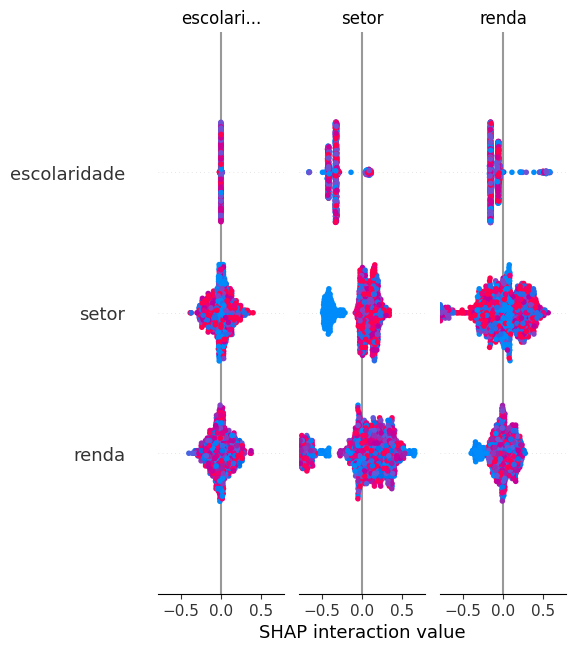
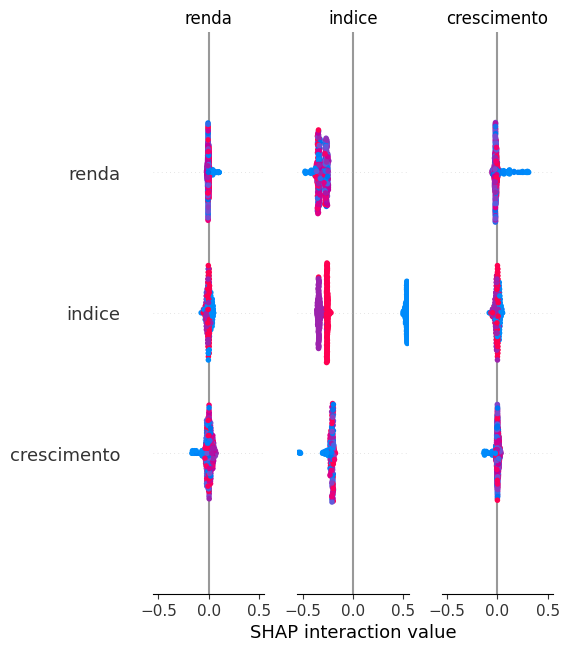
Atualização dashboard e deploy

diff --git a/src/previsao.py b/src/previsao.py
@@ -1,9 +1,9 @@
-import pandas as pd
-import joblib
 import os
+import joblib
+import pandas as pd
 
 # ==========================================
-# MODELO
+# CARREGAR MODELO
 # ==========================================
 
 modelo = None
@@ -19,19 +19,6 @@ if os.path.exists(CAMINHO_MODELO):
     )
 
 # ==========================================
-# FEATURES
-# ==========================================
-
-FEATURES_MODELO = [
-    "indice",
-    "crescimento",
-    "renda",
-    "escolaridade",
-    "setor",
-    "regiao"
-]
-
-# ==========================================
 # PREVISÃO INDIVIDUAL
 # ==========================================
 
@@ -43,32 +30,76 @@ def prever_risco(dados):
             "erro": "Modelo não encontrado."
         }
 
-    df = pd.DataFrame([dados])
+    try:
 
-    df = df[FEATURES_MODELO]
+        # ==================================
+        # CRIAR FEATURES FALTANTES
+        # ==================================
 
-    previsao = modelo.predict(df)[0]
+        risco_temp = 1
 
-    probabilidades = modelo.predict_proba(df)[0]
+        dados["indice"] = (
+            risco_temp * 40
+        )
 
-    score = round(
-        max(probabilidades) * 100,
-        2
-    )
+        dados["crescimento"] = (
+            dados["renda"] / 1000
+        )
 
-    mapa = {
-        0: "Baixo",
-        1: "Médio",
-        2: "Alto"
-    }
+        # ==================================
+        # ORDEM DAS FEATURES
+        # ==================================
 
-    return {
-        "classe": mapa.get(
+        colunas = [
+            "indice",
+            "crescimento",
+            "renda",
+            "escolaridade",
+            "setor",
+            "regiao"
+        ]
+
+        df = pd.DataFrame(
+            [dados]
+        )[colunas]
+
+        # ==================================
+        # PREVISÃO
+        # ==================================
+
+        probabilidades = (
+            modelo.predict_proba(df)
+        )
+
+        score = max(
+            probabilidades[0]
+        ) * 100
+
+        previsao = (
+            modelo.predict(df)[0]
+        )
+
+        mapa = {
+            0: "Baixo",
+            1: "Médio",
+            2: "Alto"
+        }
+
+        risco = mapa.get(
             previsao,
-            previsao
-        ),
-        "score": score
-    }
+            str(previsao)
+        )
+
+        return {
+            "risco": risco,
+            "score": round(score, 2)
+        }
+
+    except Exception as e:
+
+        return {
+            "erro": str(e)
+        }
 
 # ==========================================
 # PREVISÃO EM LOTE
@@ -78,25 +109,11 @@ def prever_em_lote(df):
 
     if modelo is None:
 
-        return pd.DataFrame({
-            "Erro": [
-                "Modelo não encontrado."
-            ]
-        })
+        raise Exception(
+            "Modelo não encontrado."
+        )
 
-    df_modelo = df.copy()
-
-    df_modelo = df_modelo[
-        FEATURES_MODELO
-    ]
-
-    previsoes = modelo.predict(
-        df_modelo
-    )
-
-    probabilidades = modelo.predict_proba(
-        df_modelo
-    )
+    previsoes = modelo.predict(df)
 
     mapa = {
         0: "Baixo",
@@ -104,19 +121,9 @@ def prever_em_lote(df):
         2: "Alto"
     }
 
-    scores = []
-
-    for prob in probabilidades:
-
-        scores.append(
-            round(max(prob) * 100, 2)
-        )
-
     df["risco_previsto"] = [
         mapa.get(p, p)
         for p in previsoes
     ]
-
-    df["score_risco"] = scores
 
     return df